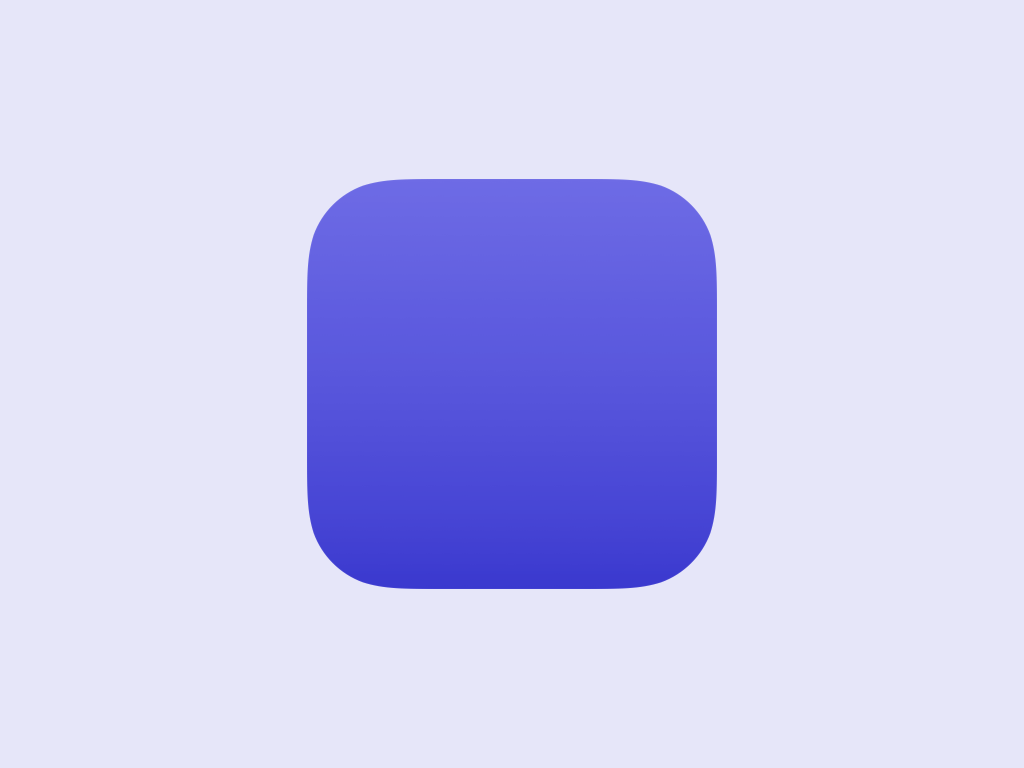
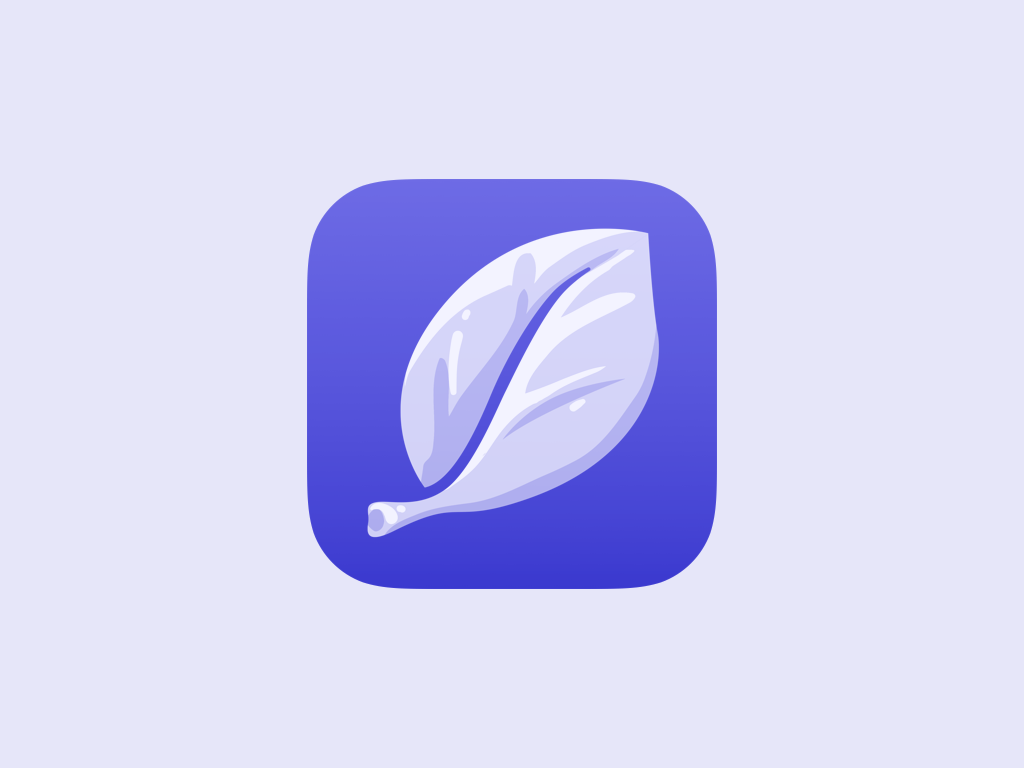
feature: add colors

Changed region(s): [[0.3438, 0.2812, 0.6562, 0.7188]]

diff --git a/AStar.swiftpm/ContentView.swift b/AStar.swiftpm/ContentView.swift
@@ -1,8 +1,8 @@
 import SwiftUI
 import AVFoundation
 
-let rows = 25
-let cols = 25
+let rows = 12
+let cols = 12
 
 var player: AVAudioPlayer!
 
@@ -18,45 +18,62 @@ struct ContentView: View {
     @State var startSet = false
     @State var startNode: Node = Node()
     
+    @State var currentRect = CGRect()
+    
     @State var endSet = false
     @State var endNode: Node = Node()
     
+    @State var foundPath: Bool = false
+    @State var path: [Node] = []
+    
     @State var idCounter: Int = 0
+    
+    @State var animateX: CGFloat = 0
+    @State var animateY: CGFloat = 0
     
     var body: some View {
         ZStack{
+            Color.theme.background
+                .edgesIgnoringSafeArea(.all)
             VStack {
                 VStack(spacing: 2){
                     ForEach(0..<rows, id: \.self) {row in
                         HStack(spacing: 2){
                             ForEach(0..<cols, id: \.self) {col in
-                                Rectangle()
-                                    .frame(width: 24, height: 24)
-                                    .foregroundColor(matrix[row][col].getColor())
-                                    .overlay(
-                                        GeometryReader { geo in
-                                            Color.clear
-                                                .onAppear {
-                                                    nodeFrames.insert((geo.frame(in: .global)), at: 0)
-                                                    matrix[row][col].col = col
-                                                    matrix[row][col].row = row
-                                                    matrix[row][col].id = idCounter
-                                                    idCounter += 1
-                                                }
-                                        }
-                                    )
+                                ZStack {
+                                    Rectangle()
+                                        .frame(width: 56, height: 56)
+                                        .foregroundColor(matrix[row][col].getColor())
+                                        .overlay(
+                                            GeometryReader { geo in
+                                                Color.clear
+                                                    .onAppear {
+                                                        nodeFrames.insert((geo.frame(in: .global)), at: 0)
+                                                        matrix[row][col].col = col
+                                                        matrix[row][col].row = row
+                                                        matrix[row][col].id = idCounter
+                                                        idCounter += 1
+                                                    }
+                                            }
+                                        )
+                                        .cornerRadius(10)
+                                }
                             }
                             .gesture(DragGesture(minimumDistance: 0, coordinateSpace: .global)
                                 .onChanged({ (value) in
                                     if let match = nodeFrames.firstIndex(where: { $0.contains(value.location) }) {
                                         let row = match / cols
                                         let col = match % cols
-                                        print("\(matrix[row][col].col), \(matrix[row][col].row)")
+                                        //print("\(matrix[row][col].col), \(matrix[row][col].row)")
+                                        print(nodeFrames[match])
                                         
                                         if !startSet {
                                             matrix[row][col].status = .start
                                             startSet = true
                                             startNode = matrix[row][col]
+                                            currentRect = nodeFrames[match]
+                                            animateX = nodeFrames[match].midX
+                                            animateY = nodeFrames[match].minY
                                             
                                         } else if !endSet {
                                             matrix[row][col].status = .end
@@ -90,7 +107,7 @@ struct ContentView: View {
                     startNode.neighboursIds = matrix[startNode.row][startNode.col].neighboursIds
                     
                     endNode.neighboursIds = matrix[endNode.row][endNode.col].neighboursIds
-
+                    
                     DispatchQueue.main.async {
                         Task {
                             let start = NSDate().timeIntervalSince1970
@@ -116,10 +133,40 @@ struct ContentView: View {
                     
                     startSet = false
                     endSet = false
+                    foundPath = false
+                    path = []
+                    currentRect = CGRect()
                 }
                 
                 Spacer()
             }
+            if startSet {
+                Image(uiImage: UIImage(imageLiteralResourceName: "biker"))
+                    .resizable()
+                    .scaledToFit()
+                    .frame(width: 80, height: 80)
+                    .position(x: animateX, y: animateY)
+                    .animation(.default, value: animateX)
+                    .animation(.default, value: animateY)
+            }
+        }
+        .onChange(of: foundPath) {_ in
+            DispatchQueue.main.async {
+                Task {
+                    await delayAnimation()
+                }
+            }
+        }
+    }
+    
+    func delayAnimation() async {
+        let reversedPath = path.reversed()
+        
+        for node in reversedPath {
+            currentRect = nodeFrames[node.row * cols + node.col]
+            animateX = currentRect.midX
+            animateY = currentRect.minY
+            try? await Task.sleep(nanoseconds: 175_000_000)
         }
     }
     

diff --git a/AStar.swiftpm/Color.swift b/AStar.swiftpm/Color.swift
@@ -1,0 +1,55 @@
+//
+//  Color.swift
+//  AStar
+//
+//  Created by matheusvb on 18/04/23.
+//
+
+import Foundation
+import SwiftUI
+
+extension Color {
+    init(hex: String) {
+        let hex = hex.trimmingCharacters(in: CharacterSet.alphanumerics.inverted)
+        var int: UInt64 = 0
+        Scanner(string: hex).scanHexInt64(&int)
+        let a, r, g, b: UInt64
+        switch hex.count {
+        case 3: // RGB (12-bit)
+            (a, r, g, b) = (255, (int >> 8) * 17, (int >> 4 & 0xF) * 17, (int & 0xF) * 17)
+        case 6: // RGB (24-bit)
+            (a, r, g, b) = (255, int >> 16, int >> 8 & 0xFF, int & 0xFF)
+        case 8: // ARGB (32-bit)
+            (a, r, g, b) = (int >> 24, int >> 16 & 0xFF, int >> 8 & 0xFF, int & 0xFF)
+        default:
+            (a, r, g, b) = (1, 1, 1, 0)
+        }
+
+        self.init(
+            .sRGB,
+            red: Double(r) / 255,
+            green: Double(g) / 255,
+            blue:  Double(b) / 255,
+            opacity: Double(a) / 255
+        )
+    }
+}
+extension Color {
+    static let theme = ColorTheme()
+}
+
+struct ColorTheme {
+    let darkBlue = Color(hex: "102F47")
+    let red = Color(hex: "DE1111")
+    let orange = Color(hex: "FD9C36")
+    let yellow = Color(hex: "FFC75B")
+    let lightGreen = Color(hex: "DDEAB7")
+    
+    let cheese = Color(hex: "FCBA04")
+    let tomatoe = Color(hex: "A50104")
+    let ketchup = Color(hex: "590004")
+    let olive = Color(hex: "250001")
+    let leaf = Color(hex: "43CD51")
+    
+    let background = Color(hex: "F3F9E3")
+}

diff --git a/AStar.swiftpm/Node.swift b/AStar.swiftpm/Node.swift
@@ -18,25 +18,25 @@ struct Node: Identifiable, Hashable {
     func getColor() -> Color {
         switch(self.status) {
         case .path:
-            return .purple
+            return Color.theme.red
             
         case .free:
-            return .gray
+            return Color.theme.orange
             
         case .open:
-            return .green
+            return Color.theme.yellow
             
         case .closed:
-            return .red
+            return Color.theme.lightGreen
             
         case .barrier:
-            return .black
+            return Color.theme.darkBlue
             
         case .start:
-            return .orange
+            return Color.theme.lightGreen
             
         case .end :
-            return .blue
+            return .pink
         }
     }
     

diff --git a/AStar.swiftpm/AStar.swift b/AStar.swiftpm/AStar.swift
@@ -65,6 +65,8 @@ extension ContentView {
                 var currentPath = currentNode
                 
                 while currentPath.id != startNode.id {
+                    path.append(currentPath)
+                    
                     pathCount += 1
                     
                     matrix[currentPath.row][currentPath.col].status = .path
@@ -85,7 +87,7 @@ extension ContentView {
                     try? await Task.sleep(nanoseconds: 35_000_000)
                 }
                 
-                
+                foundPath = true
                 //FOUND PATH
                 return true
             }

diff --git a/AStar.swiftpm/Package.swift b/AStar.swiftpm/Package.swift
@@ -20,7 +20,7 @@ let package = Package(
             teamIdentifier: "L3ZW5SA328",
             displayVersion: "1.0",
             bundleVersion: "1",
-            appIcon: .placeholder(icon: .lightningBolt),
+            appIcon: .placeholder(icon: .leaf),
             accentColor: .presetColor(.indigo),
             supportedDeviceFamilies: [
                 .pad,
